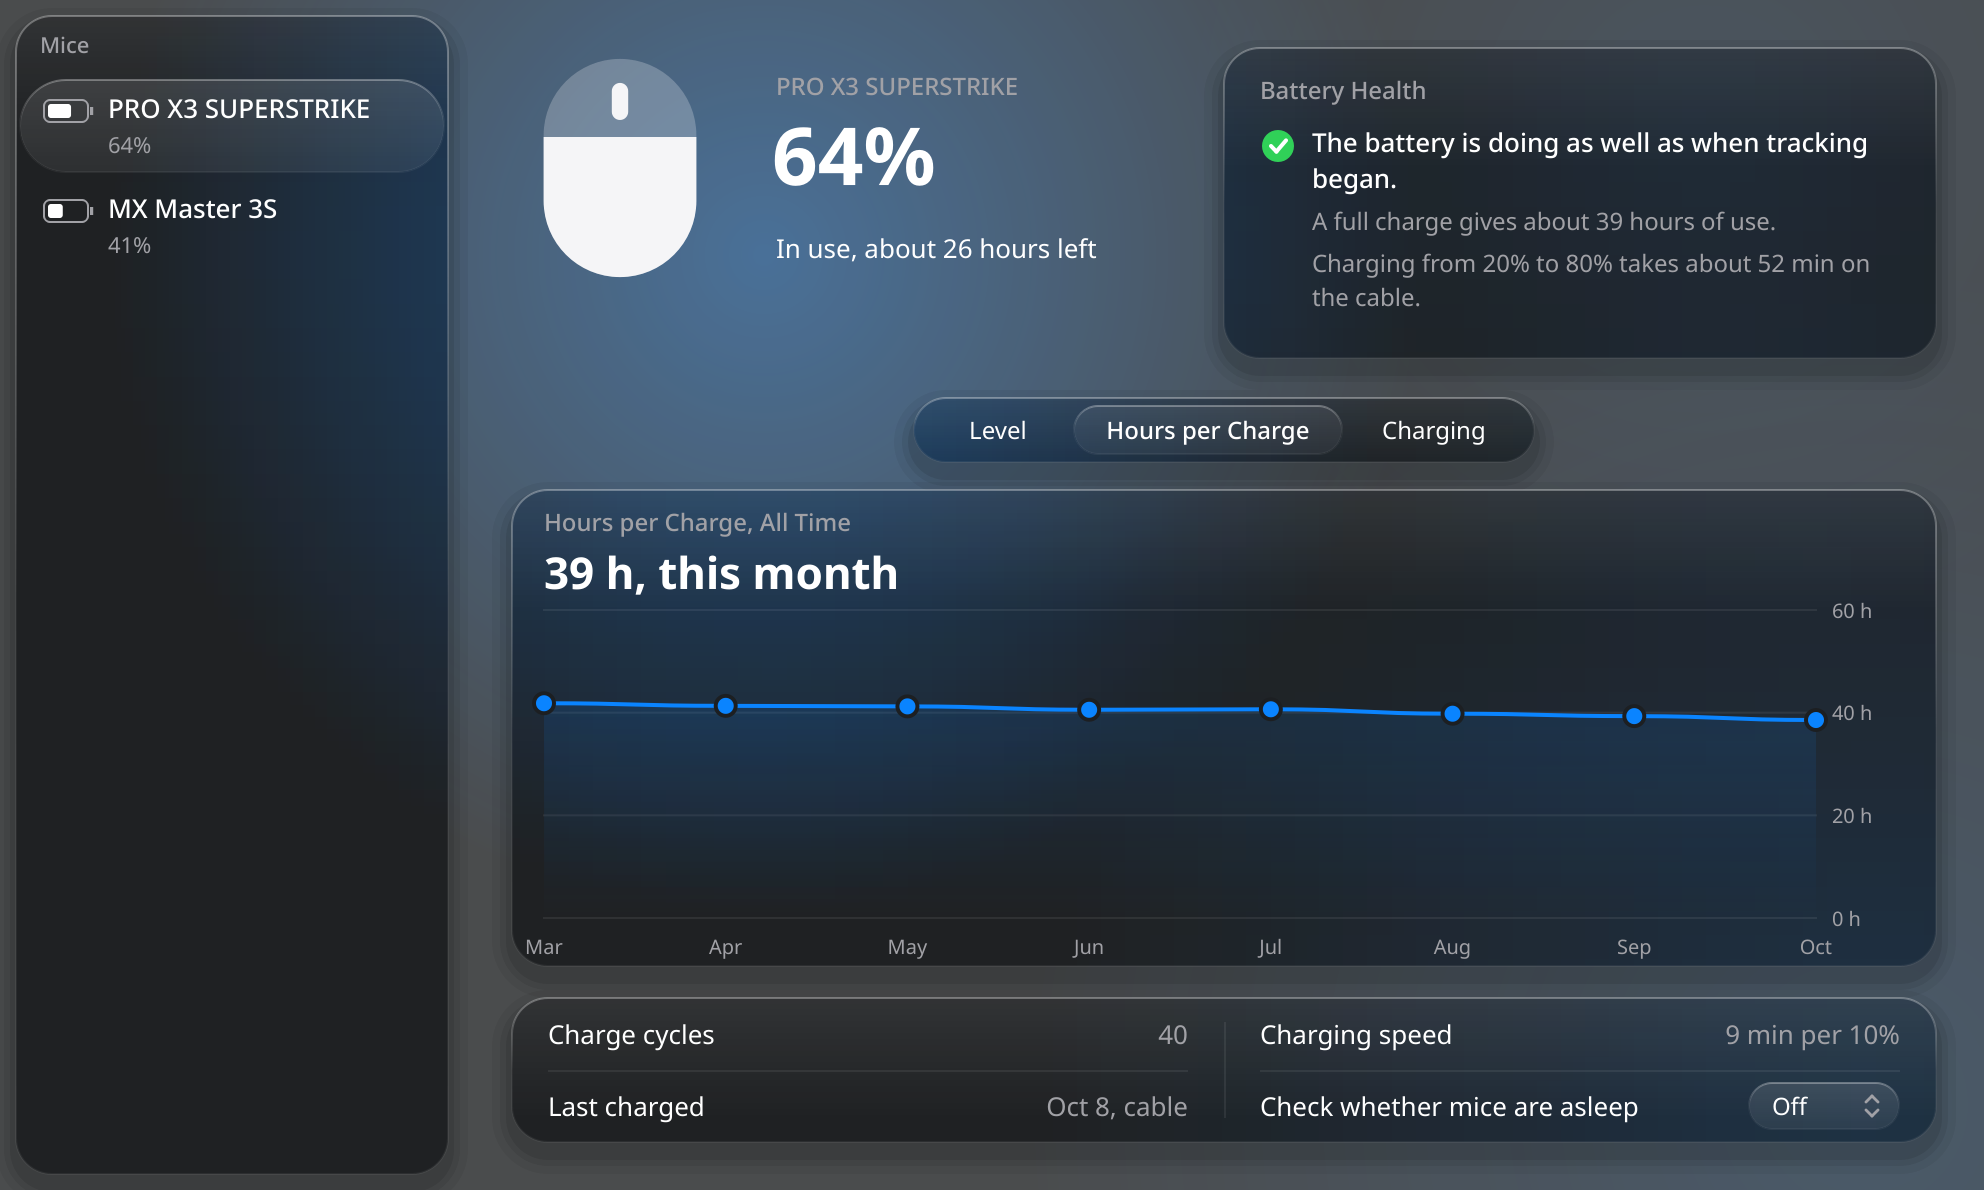
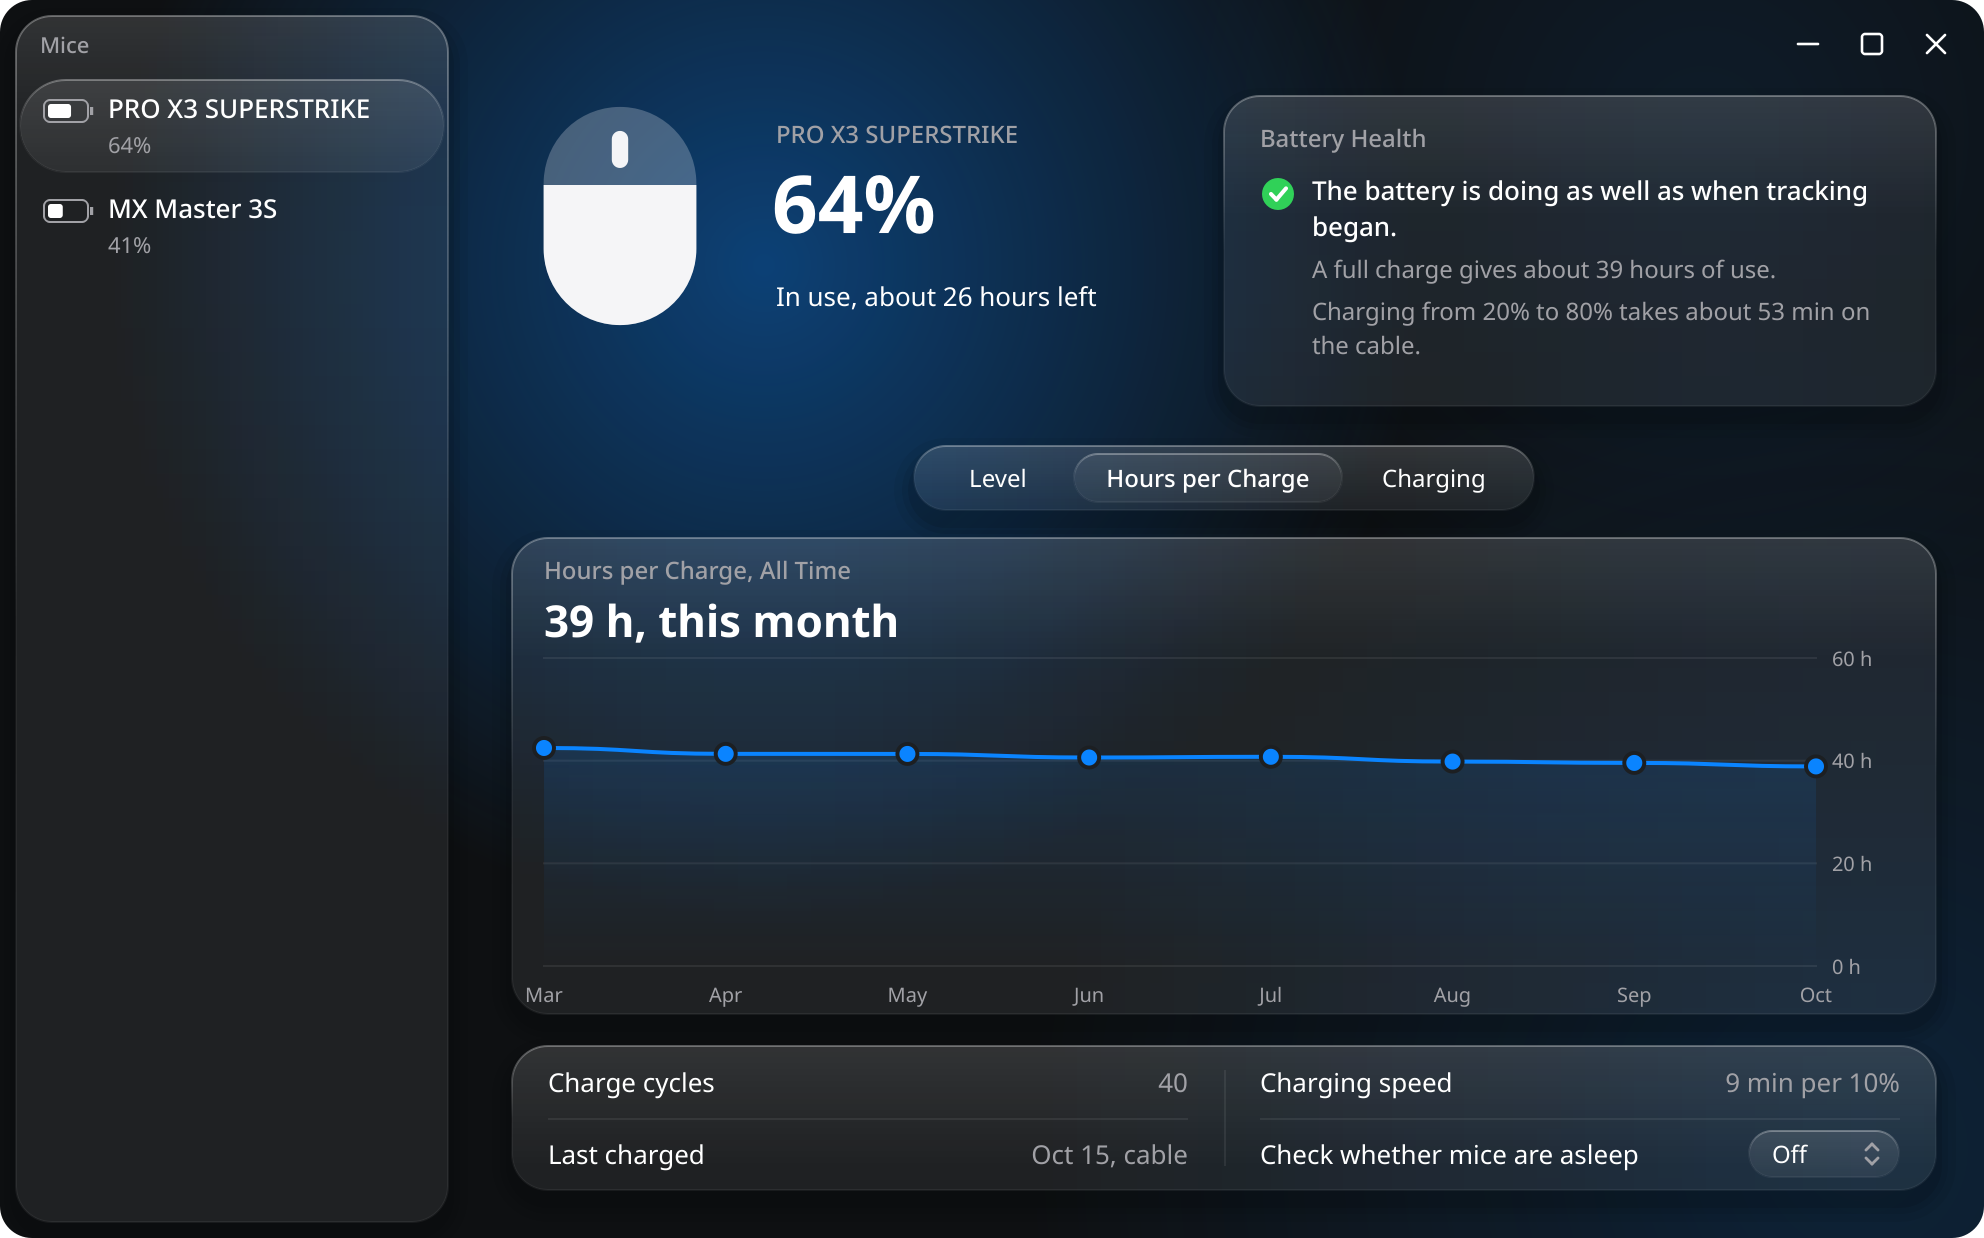
Prepare the 1.2.3 release
- Add the 1.2.3 changelog section
- Bump the version to 1.2.3
- Retake the two battery window pictures with the new title strip and corners, from the demo history of two made up mice
- Say in the README how to move and maximize the window

diff --git a/src/version.py b/src/version.py
@@ -1,1 +1,1 @@
-VERSION = "1.2.2"
+VERSION = "1.2.3"

diff --git a/README.md b/README.md
@@ -11,19 +11,19 @@ Mouse Battery isn't affiliated with Logitech.
 On Ubuntu and Debian, download the `.deb` from the [latest release](https://github.com/kymotsujason/logitech-mouse-battery-tray-icon/releases/latest) and double click it, or install it from a terminal:
 
 ```bash
-sudo apt install ./logitech-mouse-battery_1.2.2_all.deb
+sudo apt install ./logitech-mouse-battery_1.2.3_all.deb
 ```
 
 On Fedora, download the `.rpm` from the same page:
 
 ```bash
-sudo dnf install ./logitech-mouse-battery-1.2.2-1.noarch.rpm
+sudo dnf install ./logitech-mouse-battery-1.2.3-1.noarch.rpm
 ```
 
 On Arch, download the `.pkg.tar.zst` from the same page and install it with pacman:
 
 ```bash
-sudo pacman -U ./logitech-mouse-battery-1.2.2-1-any.pkg.tar.zst
+sudo pacman -U ./logitech-mouse-battery-1.2.3-1-any.pkg.tar.zst
 ```
 
 An AUR package will follow once the AUR opens account registrations again.
@@ -33,7 +33,7 @@ The package gives Mouse Battery's service access to your receiver or cable, incl
 Each file in a release after 1.1.0 comes with a signed record of how it was built. To check a download with the GitHub CLI before you install it:
 
 ```bash
-gh attestation verify ./logitech-mouse-battery-1.2.2-1-any.pkg.tar.zst --repo kymotsujason/logitech-mouse-battery-tray-icon
+gh attestation verify ./logitech-mouse-battery-1.2.3-1-any.pkg.tar.zst --repo kymotsujason/logitech-mouse-battery-tray-icon
 ```
 
 ## Use
@@ -50,7 +50,7 @@ Opening the menu refreshes the reading of each mouse the battery service reads i
 
 ## Battery window
 
-Click the tray icon, or pick "Battery Health" from its menu, to open the battery window. It shows the mouse's level and status, a health box, and a level chart for the last 24 hours, 7 days, or 30 days. It also shows how many hours a charge lasts and how fast it charges month by month, and when the mouse was last charged. With two or more mice, a sidebar lists them all.
+Click the tray icon, or pick "Battery Health" from its menu, to open the battery window. It shows the mouse's level and status, a health box, and a level chart for the last 24 hours, 7 days, or 30 days. It also shows how many hours a charge lasts and how fast it charges month by month, and when the mouse was last charged. With two or more mice, a sidebar lists them all. The window draws its own title bar, so you move it by dragging any empty space and maximize it with a double click.
 
 ![The battery window with the level chart](docs/window-level.png)
 

diff --git a/docs/development.md b/docs/development.md
@@ -54,7 +54,7 @@ The app is the flat set of modules in `src/`, which the packages install side by
 - `notify.py` sends desktop notifications.
 - `dbusCalls.py` makes the tray's D-Bus calls to the desktop and to UPower with a timeout, answering through a callback so a slow peer never holds it still. It also makes the blocking calls, each with a timeout, for the terminal check (to the battery service and UPower) and for the notice a second tray sends before it quits, and it unwraps the values in a reply. `serviceClient.py` makes the tray's own state and read calls to the battery service with its own callbacks and timeout, while its history and chart level calls go through `dbusCalls.py`.
 - `panelColor.py` works out the color the icon is drawn in from the desktop's theme, and reads the desktop portal's color scheme and reduced motion settings, which the window follows too.
-- `icon.py` draws the tray icon and the mouse picture in the battery window, and picks the window's title bar icon.
+- `icon.py` draws the tray icon and the mouse picture in the battery window, and picks the battery window's icon in the task manager.
 - `autostart.py` turns Open at Login on and off.
 - `check.py` is the terminal check.
 - `version.py` holds the version.

diff --git a/CHANGELOG.md b/CHANGELOG.md
@@ -2,6 +2,15 @@
 
 This file lists the changes in each release of Mouse Battery, newest first.
 
+## 1.2.3, 2026-10-17
+
+### Changed
+
+- The battery window draws its own title bar, with minimize, maximize, and close buttons at its top right, in place of the one the desktop draws.
+- Drag the window from any empty space to move it, double click empty space to maximize or restore it, and drag its edges or corners to resize it.
+- On KDE Plasma the window has rounded corners, with the blur behind it and its shadow shaped to match, and it goes square while maximized.
+- In the light theme, the mouse picture in the battery window is a soft gray instead of near black.
+
 ## 1.2.2, 2026-10-14
 
 ### Fixed
